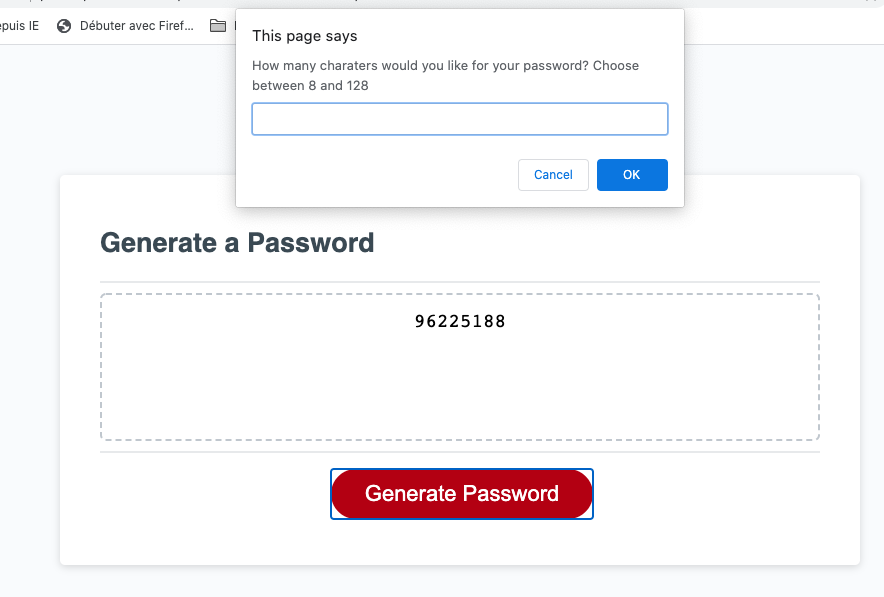
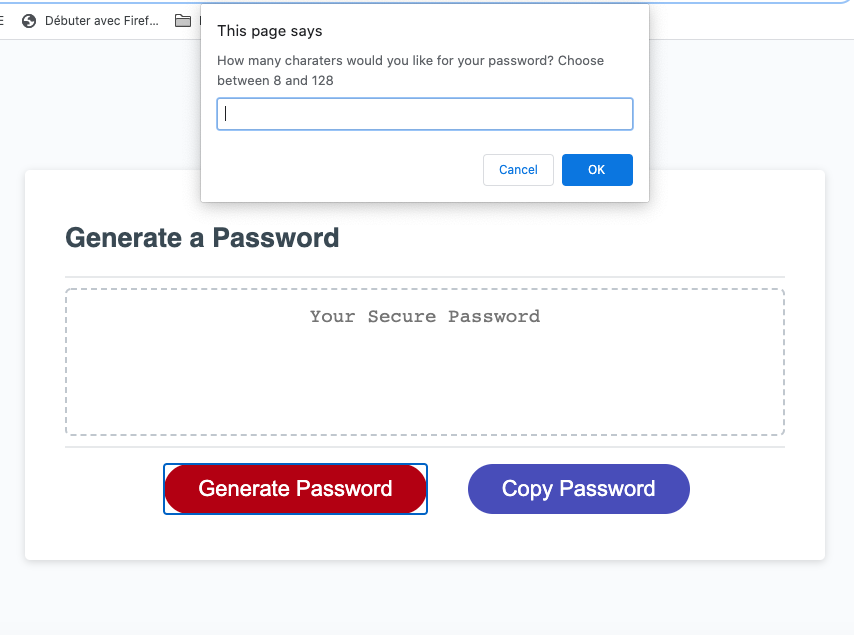
Add of copy to clipboard button

diff --git a/script.js b/script.js
@@ -31,7 +31,7 @@ function generatePassword() {
         confirmNumber = confirm("Would you like your password to contain numbers? Click OK to confirm!");
         confirmCharacters = confirm("Would you like your password to contain special characters? Click OK to confirm!");
         confirmLowercases = confirm("Would you like your password to contain lower cases? Click OK to confirm!");
-        confirmUppercases = confirm("Would you like your password to contain uppercases? Click OK to confirm!");
+        confirmUppercases = confirm("Would you like your password to contain upper cases? Click OK to confirm!");
     };
     
     if (!confirmNumber && !confirmCharacters && !confirmLowercases && !confirmUppercases){
@@ -105,3 +105,11 @@ function UserInput(p) {
     document.getElementById("password").textContent = p;
 }
 
+// Copy Password to Clipboard
+function copyText() {
+    var copyText = document.getElementById("password");
+    copyText.select();
+    copyText.setSelectionRange(0, 99999)
+    document.execCommand("copy");
+    alert("Password copied to clipboard!");
+  }

diff --git a/style.css b/style.css
@@ -88,6 +88,23 @@ header {
   cursor: pointer;
 }
 
+.btn2 {
+  border: none;
+  background-color: rgb(71, 73, 192);
+  border-radius: 25px;
+  box-shadow: rgba(0, 0, 0, 0.1) 0px 1px 6px 0px rgba(0, 0, 0, 0.2) 0px 1px 1px
+    0px;
+  color: hsl(0, 0%, 100%);
+  display: inline-block;
+  font-size: 22px;
+  line-height: 22px;
+  margin: 16px 16px 16px 20px;
+  padding: 14px 34px;
+  text-align: center;
+  cursor: pointer;
+}
+
+
 button[disabled] {
   cursor: default;
   background: #c0c7cf;

diff --git a/index.html b/index.html
@@ -26,6 +26,7 @@
         </div>
         <div class="card-footer">
           <button id="generate" class="btn" onclick="generatePassword()">Generate Password</button>
+          <button id="Copy" class="btn2" onclick="copyText()">Copy Password</button>
         </div>
       </div>
     </div>

diff --git a/README.md b/README.md
@@ -22,21 +22,15 @@ SO THAT I can create a strong password that provides greater security
 ## Application features
 
 ```
-Secure password
-WHEN I click the button to generate a password
-THEN I am presented with a series of prompts for password criteria
-WHEN prompted for password criteria
-THEN I select which criteria to include in the password
-WHEN prompted for the length of the password
-THEN I choose a length of at least 8 characters and no more than 128 characters
-WHEN prompted for character types to include in the password
-THEN I choose lowercase, uppercase, numeric, and/or special characters
-WHEN I answer each prompt
-THEN my input should be validated and at least one character type should be selected
-WHEN all prompts are answered
-THEN a password is generated that matches the selected criteria
-WHEN the password is generated
-THEN the password is either displayed in text area.
+Secure password:
+
+WHEN clicked the button to generate a password,
+A prompt for the length of at leat 8 characters and no more than 128 characters is displayed,
+Then a series of confirm for password criterias lowercase, uppercase, numeric, and/or special characters popup,
+After selected which criteria to include in the password,
+The password is generated and the password is displayed in text area.
+The Password can be copied to clipboard by clicking on the copy password button.
+
 ```
 
 
